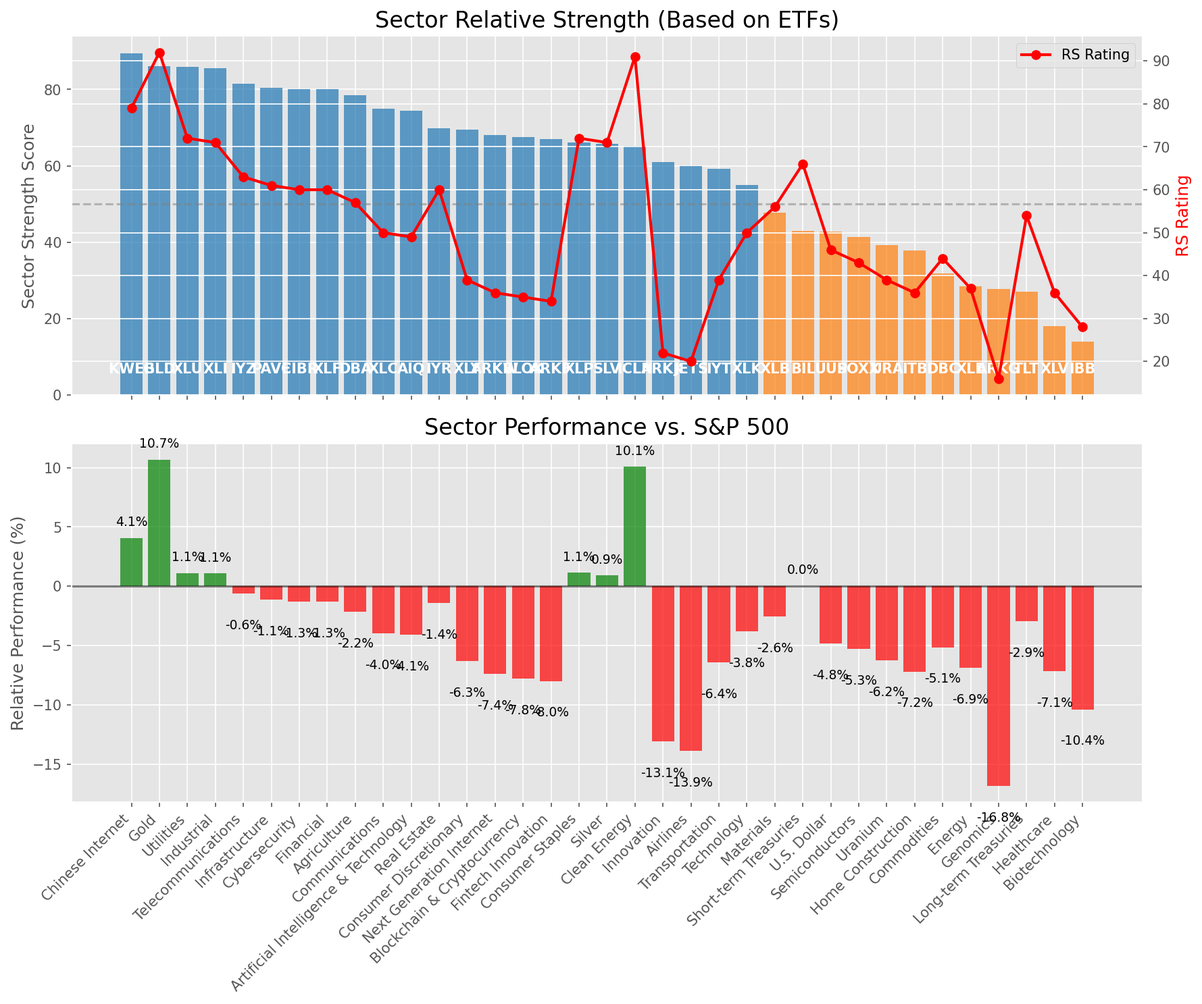
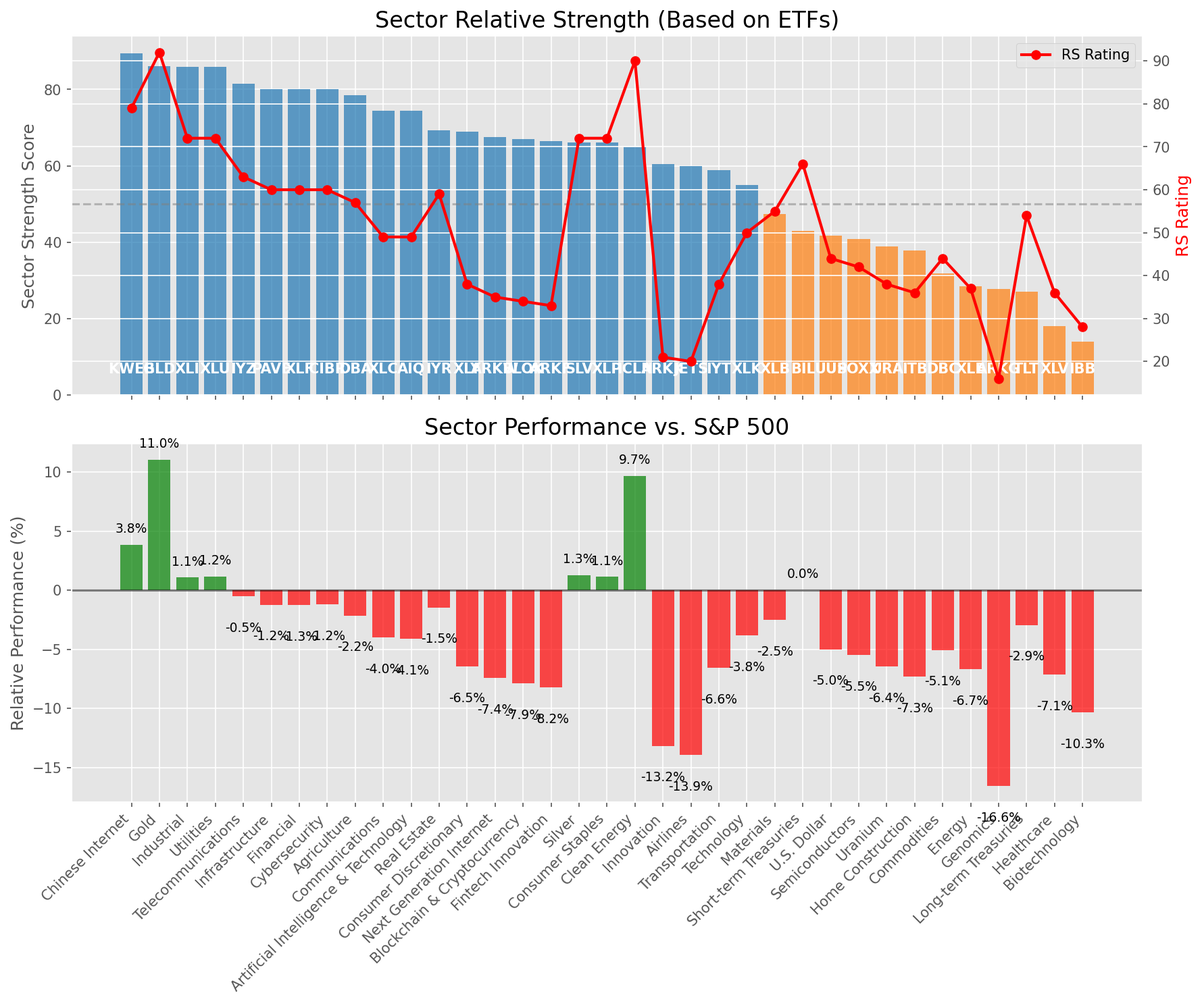
Add market report for 2025-05-12

diff --git a/oneil_relative_strength_report_2025-05-12.md b/oneil_relative_strength_report_2025-05-12.md
@@ -13,7 +13,7 @@
 | **Historical Mean** | 9.41 |
 | **Standard Deviation** | 0.51 |
 | **Z-Score (StdDev from Mean)** | -0.27 |
-| **Total Market Cap** | $286.75 trillion |
+| **Total Market Cap** | $286.88 trillion |
 | **GDP** | $29.98 trillion |
 
 ## **Market Insights**
@@ -49,41 +49,41 @@ Based on William O'Neil's Relative Strength Methodology
 
 | ETF | Strength | RS Rating | Performance | Above Key MAs | Trend | Sector |
 |-----|----------|-----------|-------------|--------------|-------|--------|
-| [KWEB](https://www.tradingview.com/chart/?symbol=KWEB) | 89.5 | 79.0 | 4.06% | 10d ✓, 50d ✓, 200d ✓ | ↗ | Chinese Internet |
-| [GLD](https://www.tradingview.com/chart/?symbol=GLD) | 86.1 | 92.0 | 10.67% | 10d ✗, 50d ✓, 200d ✓ | ↗ | Gold |
-| [XLU](https://www.tradingview.com/chart/?symbol=XLU) | 86.0 | 72.0 | 1.13% | 10d ✓, 50d ✓, 200d ✓ | ↗ | Utilities |
-| [XLI](https://www.tradingview.com/chart/?symbol=XLI) | 85.5 | 71.0 | 1.09% | 10d ✓, 50d ✓, 200d ✓ | ↗ | Industrial |
-| [IYZ](https://www.tradingview.com/chart/?symbol=IYZ) | 81.5 | 63.0 | -0.61% | 10d ✓, 50d ✓, 200d ✓ | ↗ | Telecommunications |
-| [PAVE](https://www.tradingview.com/chart/?symbol=PAVE) | 80.5 | 61.0 | -1.14% | 10d ✓, 50d ✓, 200d ✓ | ↗ | Infrastructure |
-| [CIBR](https://www.tradingview.com/chart/?symbol=CIBR) | 80.0 | 60.0 | -1.29% | 10d ✓, 50d ✓, 200d ✓ | ↗ | Cybersecurity |
-| [XLF](https://www.tradingview.com/chart/?symbol=XLF) | 80.0 | 60.0 | -1.29% | 10d ✓, 50d ✓, 200d ✓ | ↗ | Financial |
-| [DBA](https://www.tradingview.com/chart/?symbol=DBA) | 78.5 | 57.0 | -2.17% | 10d ✓, 50d ✓, 200d ✓ | ↗ | Agriculture |
-| [XLC](https://www.tradingview.com/chart/?symbol=XLC) | 75.0 | 50.0 | -3.97% | 10d ✓, 50d ✓, 200d ✓ | ↗ | Communications |
-| [AIQ](https://www.tradingview.com/chart/?symbol=AIQ) | 74.5 | 49.0 | -4.06% | 10d ✓, 50d ✓, 200d ✓ | ↗ | Artificial Intelligence & Technology |
-| [IYR](https://www.tradingview.com/chart/?symbol=IYR) | 69.8 | 60.0 | -1.42% | 10d ✓, 50d ✓, 200d ✗ | ↗ | Real Estate |
-| [XLY](https://www.tradingview.com/chart/?symbol=XLY) | 69.5 | 39.0 | -6.28% | 10d ✓, 50d ✓, 200d ✓ | ↗ | Consumer Discretionary |
-| [ARKW](https://www.tradingview.com/chart/?symbol=ARKW) | 68.0 | 36.0 | -7.39% | 10d ✓, 50d ✓, 200d ✓ | ↗ | Next Generation Internet |
-| [BLOK](https://www.tradingview.com/chart/?symbol=BLOK) | 67.5 | 35.0 | -7.78% | 10d ✓, 50d ✓, 200d ✓ | ↗ | Blockchain & Cryptocurrency |
-| [ARKF](https://www.tradingview.com/chart/?symbol=ARKF) | 67.0 | 34.0 | -7.98% | 10d ✓, 50d ✓, 200d ✓ | ↗ | Fintech Innovation |
-| [XLP](https://www.tradingview.com/chart/?symbol=XLP) | 66.2 | 72.0 | 1.14% | 10d ✗, 50d ✗, 200d ✓ | ↗ | Consumer Staples |
-| [SLV](https://www.tradingview.com/chart/?symbol=SLV) | 65.7 | 71.0 | 0.92% | 10d ✗, 50d ✗, 200d ✓ | ↗ | Silver |
-| [ICLN](https://www.tradingview.com/chart/?symbol=ICLN) | 65.3 | 91.0 | 10.06% | 10d ✓, 50d ✓, 200d ✗ | ↘ | Clean Energy |
-| [ARKK](https://www.tradingview.com/chart/?symbol=ARKK) | 61.0 | 22.0 | -13.09% | 10d ✓, 50d ✓, 200d ✓ | ↗ | Innovation |
-| [JETS](https://www.tradingview.com/chart/?symbol=JETS) | 60.0 | 20.0 | -13.87% | 10d ✓, 50d ✓, 200d ✓ | ↗ | Airlines |
-| [IYT](https://www.tradingview.com/chart/?symbol=IYT) | 59.3 | 39.0 | -6.43% | 10d ✓, 50d ✓, 200d ✗ | ↗ | Transportation |
-| [XLK](https://www.tradingview.com/chart/?symbol=XLK) | 55.0 | 50.0 | -3.78% | 10d ✓, 50d ✓, 200d ✓ | ↘ | Technology |
-| [XLB](https://www.tradingview.com/chart/?symbol=XLB) | 47.8 | 56.0 | -2.56% | 10d ✓, 50d ✓, 200d ✗ | ↘ | Materials |
+| [KWEB](https://www.tradingview.com/chart/?symbol=KWEB) | 89.5 | 79.0 | 3.84% | 10d ✓, 50d ✓, 200d ✓ | ↗ | Chinese Internet |
+| [GLD](https://www.tradingview.com/chart/?symbol=GLD) | 86.1 | 92.0 | 11.04% | 10d ✗, 50d ✓, 200d ✓ | ↗ | Gold |
+| [XLI](https://www.tradingview.com/chart/?symbol=XLI) | 86.0 | 72.0 | 1.09% | 10d ✓, 50d ✓, 200d ✓ | ↗ | Industrial |
+| [XLU](https://www.tradingview.com/chart/?symbol=XLU) | 86.0 | 72.0 | 1.16% | 10d ✓, 50d ✓, 200d ✓ | ↗ | Utilities |
+| [IYZ](https://www.tradingview.com/chart/?symbol=IYZ) | 81.5 | 63.0 | -0.52% | 10d ✓, 50d ✓, 200d ✓ | ↗ | Telecommunications |
+| [PAVE](https://www.tradingview.com/chart/?symbol=PAVE) | 80.0 | 60.0 | -1.23% | 10d ✓, 50d ✓, 200d ✓ | ↗ | Infrastructure |
+| [XLF](https://www.tradingview.com/chart/?symbol=XLF) | 80.0 | 60.0 | -1.27% | 10d ✓, 50d ✓, 200d ✓ | ↗ | Financial |
+| [CIBR](https://www.tradingview.com/chart/?symbol=CIBR) | 80.0 | 60.0 | -1.19% | 10d ✓, 50d ✓, 200d ✓ | ↗ | Cybersecurity |
+| [DBA](https://www.tradingview.com/chart/?symbol=DBA) | 78.5 | 57.0 | -2.16% | 10d ✓, 50d ✓, 200d ✓ | ↗ | Agriculture |
+| [XLC](https://www.tradingview.com/chart/?symbol=XLC) | 74.5 | 49.0 | -4.02% | 10d ✓, 50d ✓, 200d ✓ | ↗ | Communications |
+| [AIQ](https://www.tradingview.com/chart/?symbol=AIQ) | 74.5 | 49.0 | -4.13% | 10d ✓, 50d ✓, 200d ✓ | ↗ | Artificial Intelligence & Technology |
+| [IYR](https://www.tradingview.com/chart/?symbol=IYR) | 69.3 | 59.0 | -1.46% | 10d ✓, 50d ✓, 200d ✗ | ↗ | Real Estate |
+| [XLY](https://www.tradingview.com/chart/?symbol=XLY) | 69.0 | 38.0 | -6.45% | 10d ✓, 50d ✓, 200d ✓ | ↗ | Consumer Discretionary |
+| [ARKW](https://www.tradingview.com/chart/?symbol=ARKW) | 67.5 | 35.0 | -7.43% | 10d ✓, 50d ✓, 200d ✓ | ↗ | Next Generation Internet |
+| [BLOK](https://www.tradingview.com/chart/?symbol=BLOK) | 67.0 | 34.0 | -7.88% | 10d ✓, 50d ✓, 200d ✓ | ↗ | Blockchain & Cryptocurrency |
+| [ARKF](https://www.tradingview.com/chart/?symbol=ARKF) | 66.5 | 33.0 | -8.24% | 10d ✓, 50d ✓, 200d ✓ | ↗ | Fintech Innovation |
+| [SLV](https://www.tradingview.com/chart/?symbol=SLV) | 66.2 | 72.0 | 1.27% | 10d ✗, 50d ✗, 200d ✓ | ↗ | Silver |
+| [XLP](https://www.tradingview.com/chart/?symbol=XLP) | 66.2 | 72.0 | 1.12% | 10d ✗, 50d ✗, 200d ✓ | ↗ | Consumer Staples |
+| [ICLN](https://www.tradingview.com/chart/?symbol=ICLN) | 64.8 | 90.0 | 9.66% | 10d ✓, 50d ✓, 200d ✗ | ↘ | Clean Energy |
+| [ARKK](https://www.tradingview.com/chart/?symbol=ARKK) | 60.5 | 21.0 | -13.18% | 10d ✓, 50d ✓, 200d ✓ | ↗ | Innovation |
+| [JETS](https://www.tradingview.com/chart/?symbol=JETS) | 60.0 | 20.0 | -13.95% | 10d ✓, 50d ✓, 200d ✓ | ↗ | Airlines |
+| [IYT](https://www.tradingview.com/chart/?symbol=IYT) | 58.8 | 38.0 | -6.56% | 10d ✓, 50d ✓, 200d ✗ | ↗ | Transportation |
+| [XLK](https://www.tradingview.com/chart/?symbol=XLK) | 55.0 | 50.0 | -3.84% | 10d ✓, 50d ✓, 200d ✓ | ↘ | Technology |
+| [XLB](https://www.tradingview.com/chart/?symbol=XLB) | 47.3 | 55.0 | -2.53% | 10d ✓, 50d ✓, 200d ✗ | ↘ | Materials |
 | [BIL](https://www.tradingview.com/chart/?symbol=BIL) | 42.9 | 66.0 | 0.03% | 10d ✓, 50d ✗, 200d ✗ | ↘ | Short-term Treasuries |
-| [UUP](https://www.tradingview.com/chart/?symbol=UUP) | 42.8 | 46.0 | -4.83% | 10d ✓, 50d ✓, 200d ✗ | ↘ | U.S. Dollar |
-| [SOXX](https://www.tradingview.com/chart/?symbol=SOXX) | 41.3 | 43.0 | -5.27% | 10d ✓, 50d ✓, 200d ✗ | ↘ | Semiconductors |
-| [URA](https://www.tradingview.com/chart/?symbol=URA) | 39.3 | 39.0 | -6.24% | 10d ✓, 50d ✓, 200d ✗ | ↘ | Uranium |
-| [ITB](https://www.tradingview.com/chart/?symbol=ITB) | 37.8 | 36.0 | -7.18% | 10d ✓, 50d ✓, 200d ✗ | ↘ | Home Construction |
-| [DBC](https://www.tradingview.com/chart/?symbol=DBC) | 31.9 | 44.0 | -5.13% | 10d ✓, 50d ✗, 200d ✗ | ↘ | Commodities |
-| [XLE](https://www.tradingview.com/chart/?symbol=XLE) | 28.4 | 37.0 | -6.88% | 10d ✓, 50d ✗, 200d ✗ | ↘ | Energy |
-| [ARKG](https://www.tradingview.com/chart/?symbol=ARKG) | 27.8 | 16.0 | -16.82% | 10d ✓, 50d ✓, 200d ✗ | ↘ | Genomics |
-| [TLT](https://www.tradingview.com/chart/?symbol=TLT) | 27.0 | 54.0 | -2.93% | 10d ✗, 50d ✗, 200d ✗ | ↘ | Long-term Treasuries |
-| [XLV](https://www.tradingview.com/chart/?symbol=XLV) | 18.0 | 36.0 | -7.14% | 10d ✗, 50d ✗, 200d ✗ | ↘ | Healthcare |
-| [IBB](https://www.tradingview.com/chart/?symbol=IBB) | 14.0 | 28.0 | -10.37% | 10d ✗, 50d ✗, 200d ✗ | ↘ | Biotechnology |
+| [UUP](https://www.tradingview.com/chart/?symbol=UUP) | 41.8 | 44.0 | -5.01% | 10d ✓, 50d ✓, 200d ✗ | ↘ | U.S. Dollar |
+| [SOXX](https://www.tradingview.com/chart/?symbol=SOXX) | 40.8 | 42.0 | -5.49% | 10d ✓, 50d ✓, 200d ✗ | ↘ | Semiconductors |
+| [URA](https://www.tradingview.com/chart/?symbol=URA) | 38.8 | 38.0 | -6.44% | 10d ✓, 50d ✓, 200d ✗ | ↘ | Uranium |
+| [ITB](https://www.tradingview.com/chart/?symbol=ITB) | 37.8 | 36.0 | -7.31% | 10d ✓, 50d ✓, 200d ✗ | ↘ | Home Construction |
+| [DBC](https://www.tradingview.com/chart/?symbol=DBC) | 31.9 | 44.0 | -5.07% | 10d ✓, 50d ✗, 200d ✗ | ↘ | Commodities |
+| [XLE](https://www.tradingview.com/chart/?symbol=XLE) | 28.4 | 37.0 | -6.69% | 10d ✓, 50d ✗, 200d ✗ | ↘ | Energy |
+| [ARKG](https://www.tradingview.com/chart/?symbol=ARKG) | 27.8 | 16.0 | -16.56% | 10d ✓, 50d ✓, 200d ✗ | ↘ | Genomics |
+| [TLT](https://www.tradingview.com/chart/?symbol=TLT) | 27.0 | 54.0 | -2.95% | 10d ✗, 50d ✗, 200d ✗ | ↘ | Long-term Treasuries |
+| [XLV](https://www.tradingview.com/chart/?symbol=XLV) | 18.0 | 36.0 | -7.13% | 10d ✗, 50d ✗, 200d ✗ | ↘ | Healthcare |
+| [IBB](https://www.tradingview.com/chart/?symbol=IBB) | 14.0 | 28.0 | -10.34% | 10d ✗, 50d ✗, 200d ✗ | ↘ | Biotechnology |
 
 ### **Sector ETF Performance Interpretation**
 
@@ -98,160 +98,155 @@ This table shows the relative strength metrics for different market sectors base
 
 ### **Current Sector Leadership**
 
-The current market leadership is coming from the following sectors: **Chinese Internet, Gold, Utilities**.
+The current market leadership is coming from the following sectors: **Chinese Internet, Gold, Industrial**.
 
-The **Chinese Internet** sector (represented by **KWEB**) is showing particularly strong relative strength with an RS rating of 79.0 and performance of 4.06% vs. the S&P 500. This sector is trading above its 10-day, 50-day, 200-day moving average(s). Investors should consider focusing on high RS stocks within these leading sectors for potential outperformance.
+The **Chinese Internet** sector (represented by **KWEB**) is showing particularly strong relative strength with an RS rating of 79.0 and performance of 3.84% vs. the S&P 500. This sector is trading above its 10-day, 50-day, 200-day moving average(s). Investors should consider focusing on high RS stocks within these leading sectors for potential outperformance.
 
 ---
 
 ## **Buy Recommendations**
 
-The following 55 stocks show exceptional relative strength:
+The following 59 stocks show exceptional relative strength:
 
 | RS Rating | Buy Score | Current Price | Chart | Name | Ticker |
 |-----------|-----------|---------------|-------|------|--------|
-| 100 | 100 | $19.35 | [Chart](https://www.tradingview.com/chart/?symbol=SPNT) | SiriusPoint Ltd. | SPNT |
+| 100 | 100 | $86.19 | [Chart](https://www.tradingview.com/chart/?symbol=SEZL) | Sezzle Inc. Common Stock | SEZL |
+| 100 | 100 | $154.80 | [Chart](https://www.tradingview.com/chart/?symbol=PLMR) | Palomar Holdings, Inc. Common stock | PLMR |
+| 100 | 100 | $19.57 | [Chart](https://www.tradingview.com/chart/?symbol=SPNT) | SiriusPoint Ltd. | SPNT |
+| 100 | 100 | $171.01 | [Chart](https://www.tradingview.com/chart/?symbol=DAVE) | Dave Inc. Class A Common Stock | DAVE |
 | 100 | 100 | $27.43 | [Chart](https://www.tradingview.com/chart/?symbol=DB) | Deutsche Bank Aktiengesellschaft | DB |
-| 100 | 100 | $87.50 | [Chart](https://www.tradingview.com/chart/?symbol=SEZL) | Sezzle Inc. Common Stock | SEZL |
-| 100 | 100 | $172.51 | [Chart](https://www.tradingview.com/chart/?symbol=DAVE) | Dave Inc. Class A Common Stock | DAVE |
-| 100 | 100 | $23.04 | [Chart](https://www.tradingview.com/chart/?symbol=PRA) | ProAssurance Corporation | PRA |
-| 100 | 100 | $23.90 | [Chart](https://www.tradingview.com/chart/?symbol=GRND) | Grindr Inc. | GRND |
-| 99 | 100 | $149.30 | [Chart](https://www.tradingview.com/chart/?symbol=ROOT) | Root, Inc. Class A Common Stock | ROOT |
-| 99 | 100 | $133.00 | [Chart](https://www.tradingview.com/chart/?symbol=VSEC) | VSE Corp | VSEC |
-| 99 | 100 | $47.63 | [Chart](https://www.tradingview.com/chart/?symbol=MRX) | Marex Group plc Ordinary Shares | MRX |
-| 99 | 100 | $70.11 | [Chart](https://www.tradingview.com/chart/?symbol=ULS) | UL Solutions Inc. | ULS |
-| 98 | 100 | $406.57 | [Chart](https://www.tradingview.com/chart/?symbol=MSTR) | MicroStrategy Inc | MSTR |
-| 98 | 100 | $130.24 | [Chart](https://www.tradingview.com/chart/?symbol=ATGE) | Adtalem Global Education Inc. Common Shares | ATGE |
-| 98 | 100 | $157.44 | [Chart](https://www.tradingview.com/chart/?symbol=HWM) | Howmet Aerospace Inc. | HWM |
-| 98 | 100 | $38.65 | [Chart](https://www.tradingview.com/chart/?symbol=PAY) | Paymentus Holdings, Inc. | PAY |
-| 98 | 100 | $30.66 | [Chart](https://www.tradingview.com/chart/?symbol=EUFN) | iShares MSCI Europe Financials ETF | EUFN |
-| 98 | 100 | $34.90 | [Chart](https://www.tradingview.com/chart/?symbol=AHR) | American Healthcare REIT, Inc. | AHR |
-| 97 | 100 | $116.71 | [Chart](https://www.tradingview.com/chart/?symbol=EHC) | Encompass Health Corporation Common Stock | EHC |
-| 97 | 100 | $147.93 | [Chart](https://www.tradingview.com/chart/?symbol=CAH) | Cardinal Health, Inc. | CAH |
-| 96 | 100 | $40.25 | [Chart](https://www.tradingview.com/chart/?symbol=EWG) | iShares MSCI Germany ETF | EWG |
-| 96 | 100 | $28.05 | [Chart](https://www.tradingview.com/chart/?symbol=FMS) | Fresenius Medical Care AG | FMS |
-| 96 | 100 | $33.27 | [Chart](https://www.tradingview.com/chart/?symbol=SLM) | SLM Corporation | SLM |
-| 96 | 100 | $143.66 | [Chart](https://www.tradingview.com/chart/?symbol=SE) | Sea Limited American Depositary Shares, each representing one Class A Ordinary Share | SE |
-| 96 | 100 | $74.53 | [Chart](https://www.tradingview.com/chart/?symbol=RBLX) | Roblox Corporation | RBLX |
-| 96 | 100 | $33.80 | [Chart](https://www.tradingview.com/chart/?symbol=UTI) | Universal Technical Institute, Inc. | UTI |
-| 95 | 100 | $217.23 | [Chart](https://www.tradingview.com/chart/?symbol=CRS) | Carpenter Technology Corp | CRS |
+| 99 | 100 | $47.58 | [Chart](https://www.tradingview.com/chart/?symbol=MRX) | Marex Group plc Ordinary Shares | MRX |
+| 99 | 100 | $132.54 | [Chart](https://www.tradingview.com/chart/?symbol=VSEC) | VSE Corp | VSEC |
+| 99 | 100 | $150.82 | [Chart](https://www.tradingview.com/chart/?symbol=ROOT) | Root, Inc. Class A Common Stock | ROOT |
+| 99 | 100 | $70.68 | [Chart](https://www.tradingview.com/chart/?symbol=ULS) | UL Solutions Inc. | ULS |
+| 99 | 100 | $23.66 | [Chart](https://www.tradingview.com/chart/?symbol=GRND) | Grindr Inc. | GRND |
+| 98 | 100 | $156.25 | [Chart](https://www.tradingview.com/chart/?symbol=HWM) | Howmet Aerospace Inc. | HWM |
+| 98 | 100 | $407.09 | [Chart](https://www.tradingview.com/chart/?symbol=MSTR) | MicroStrategy Inc | MSTR |
+| 98 | 100 | $130.86 | [Chart](https://www.tradingview.com/chart/?symbol=ATGE) | Adtalem Global Education Inc. Common Shares | ATGE |
+| 98 | 100 | $34.76 | [Chart](https://www.tradingview.com/chart/?symbol=AHR) | American Healthcare REIT, Inc. | AHR |
+| 97 | 100 | $40.68 | [Chart](https://www.tradingview.com/chart/?symbol=DRS) | Leonardo DRS, Inc. Common Stock | DRS |
+| 97 | 100 | $33.97 | [Chart](https://www.tradingview.com/chart/?symbol=UTI) | Universal Technical Institute, Inc. | UTI |
+| 97 | 100 | $116.90 | [Chart](https://www.tradingview.com/chart/?symbol=EHC) | Encompass Health Corporation Common Stock | EHC |
+| 97 | 100 | $30.71 | [Chart](https://www.tradingview.com/chart/?symbol=EUFN) | iShares MSCI Europe Financials ETF | EUFN |
+| 97 | 100 | $38.18 | [Chart](https://www.tradingview.com/chart/?symbol=PAY) | Paymentus Holdings, Inc. | PAY |
+| 96 | 100 | $28.10 | [Chart](https://www.tradingview.com/chart/?symbol=FMS) | Fresenius Medical Care AG | FMS |
+| 96 | 100 | $40.32 | [Chart](https://www.tradingview.com/chart/?symbol=EWG) | iShares MSCI Germany ETF | EWG |
+| 96 | 100 | $147.92 | [Chart](https://www.tradingview.com/chart/?symbol=CAH) | Cardinal Health, Inc. | CAH |
+| 95 | 100 | $217.38 | [Chart](https://www.tradingview.com/chart/?symbol=CRS) | Carpenter Technology Corp | CRS |
+| 95 | 100 | $22.51 | [Chart](https://www.tradingview.com/chart/?symbol=LAUR) | Laureate Education, Inc. Common Stock | LAUR |
 | 95 | 100 | $40.85 | [Chart](https://www.tradingview.com/chart/?symbol=AB) | AllianceBernstein Holding, L.P. | AB |
-| 95 | 100 | $298.49 | [Chart](https://www.tradingview.com/chart/?symbol=PEN) | Penumbra, Inc. | PEN |
-| 95 | 100 | $47.82 | [Chart](https://www.tradingview.com/chart/?symbol=ERJ) | Embraer S.A. | ERJ |
-| 95 | 100 | $62.06 | [Chart](https://www.tradingview.com/chart/?symbol=CHEF) | The Chef's Warehouse Inc | CHEF |
-| 94 | 100 | $22.40 | [Chart](https://www.tradingview.com/chart/?symbol=LAUR) | Laureate Education, Inc. Common Stock | LAUR |
-| 93 | 100 | $53.04 | [Chart](https://www.tradingview.com/chart/?symbol=EPR) | EPR Properties | EPR |
-| 93 | 100 | $87.51 | [Chart](https://www.tradingview.com/chart/?symbol=TGLS) | Tecnoglass Inc. | TGLS |
-| 93 | 100 | $16.72 | [Chart](https://www.tradingview.com/chart/?symbol=BCS) | Barclays PLC | BCS |
-| 93 | 100 | $104.70 | [Chart](https://www.tradingview.com/chart/?symbol=RBA) | RB Global, Inc. | RBA |
-| 92 | 100 | $316.93 | [Chart](https://www.tradingview.com/chart/?symbol=PODD) | Insulet Corporation | PODD |
-| 89 | 100 | $94.56 | [Chart](https://www.tradingview.com/chart/?symbol=HEES) | H&E Equipment Services, Inc. | HEES |
-| 89 | 100 | $25.10 | [Chart](https://www.tradingview.com/chart/?symbol=EWS) | iShares MSCI Singapore ETF | EWS |
-| 89 | 100 | $67.65 | [Chart](https://www.tradingview.com/chart/?symbol=CTVA) | Corteva, Inc. Common Stock | CTVA |
-| 88 | 100 | $58.24 | [Chart](https://www.tradingview.com/chart/?symbol=HSBC) | HSBC Holdings PLC | HSBC |
-| 87 | 99 | $196.10 | [Chart](https://www.tradingview.com/chart/?symbol=LOPE) | Grand Canyon Education, Inc | LOPE |
-| 88 | 98 | $13.30 | [Chart](https://www.tradingview.com/chart/?symbol=CNH) | CNH INDUSTRIAL N.V. | CNH |
-| 86 | 96 | $30.55 | [Chart](https://www.tradingview.com/chart/?symbol=PRDO) | Perdoceo Education Corporation | PRDO |
-| 85 | 96 | $205.37 | [Chart](https://www.tradingview.com/chart/?symbol=BAP) | Credicorp LTD | BAP |
-| 83 | 96 | $45.78 | [Chart](https://www.tradingview.com/chart/?symbol=QFIN) | Qifu Technology, Inc. American Depositary Shares | QFIN |
-| 84 | 95 | $29.62 | [Chart](https://www.tradingview.com/chart/?symbol=ATAT) | Atour Lifestyle Holdings Limited American Depositary Shares | ATAT |
-| 82 | 95 | $218.41 | [Chart](https://www.tradingview.com/chart/?symbol=IDCC) | InterDigital, Inc. | IDCC |
+| 95 | 100 | $297.33 | [Chart](https://www.tradingview.com/chart/?symbol=PEN) | Penumbra, Inc. | PEN |
+| 95 | 100 | $33.23 | [Chart](https://www.tradingview.com/chart/?symbol=SLM) | SLM Corporation | SLM |
+| 95 | 100 | $73.67 | [Chart](https://www.tradingview.com/chart/?symbol=RBLX) | Roblox Corporation | RBLX |
+| 95 | 100 | $48.00 | [Chart](https://www.tradingview.com/chart/?symbol=ERJ) | Embraer S.A. | ERJ |
+| 95 | 100 | $62.11 | [Chart](https://www.tradingview.com/chart/?symbol=CHEF) | The Chef's Warehouse Inc | CHEF |
+| 95 | 100 | $142.84 | [Chart](https://www.tradingview.com/chart/?symbol=SE) | Sea Limited American Depositary Shares, each representing one Class A Ordinary Share | SE |
+| 94 | 100 | $119.51 | [Chart](https://www.tradingview.com/chart/?symbol=COOP) | Mr. Cooper Group Inc. Common Stock | COOP |
+| 93 | 100 | $87.08 | [Chart](https://www.tradingview.com/chart/?symbol=TGLS) | Tecnoglass Inc. | TGLS |
+| 93 | 100 | $52.99 | [Chart](https://www.tradingview.com/chart/?symbol=EPR) | EPR Properties | EPR |
+| 93 | 100 | $16.73 | [Chart](https://www.tradingview.com/chart/?symbol=BCS) | Barclays PLC | BCS |
+| 93 | 100 | $104.27 | [Chart](https://www.tradingview.com/chart/?symbol=RBA) | RB Global, Inc. | RBA |
+| 92 | 100 | $316.15 | [Chart](https://www.tradingview.com/chart/?symbol=PODD) | Insulet Corporation | PODD |
+| 90 | 100 | $112.75 | [Chart](https://www.tradingview.com/chart/?symbol=OLLI) | Ollie's Bargain Outlet Holdings, Inc. Common Stock | OLLI |
+| 89 | 100 | $25.11 | [Chart](https://www.tradingview.com/chart/?symbol=EWS) | iShares MSCI Singapore ETF | EWS |
+| 89 | 100 | $94.58 | [Chart](https://www.tradingview.com/chart/?symbol=HEES) | H&E Equipment Services, Inc. | HEES |
+| 89 | 100 | $67.88 | [Chart](https://www.tradingview.com/chart/?symbol=CTVA) | Corteva, Inc. Common Stock | CTVA |
+| 88 | 100 | $58.30 | [Chart](https://www.tradingview.com/chart/?symbol=HSBC) | HSBC Holdings PLC | HSBC |
+| 88 | 100 | $195.67 | [Chart](https://www.tradingview.com/chart/?symbol=LOPE) | Grand Canyon Education, Inc | LOPE |
+| 88 | 98 | $13.32 | [Chart](https://www.tradingview.com/chart/?symbol=CNH) | CNH INDUSTRIAL N.V. | CNH |
+| 88 | 98 | $30.86 | [Chart](https://www.tradingview.com/chart/?symbol=PRDO) | Perdoceo Education Corporation | PRDO |
+| 85 | 95 | $35.96 | [Chart](https://www.tradingview.com/chart/?symbol=FXI) | iShares China Large-Cap ETF | FXI |
+| 84 | 95 | $205.37 | [Chart](https://www.tradingview.com/chart/?symbol=BAP) | Credicorp LTD | BAP |
+| 81 | 94 | $217.52 | [Chart](https://www.tradingview.com/chart/?symbol=IDCC) | InterDigital, Inc. | IDCC |
+| 81 | 94 | $45.51 | [Chart](https://www.tradingview.com/chart/?symbol=QFIN) | Qifu Technology, Inc. American Depositary Shares | QFIN |
+| 83 | 93 | $29.52 | [Chart](https://www.tradingview.com/chart/?symbol=ATAT) | Atour Lifestyle Holdings Limited American Depositary Shares | ATAT |
+| 82 | 93 | $165.27 | [Chart](https://www.tradingview.com/chart/?symbol=ITA) | iShares U.S. Aerospace & Defense ETF | ITA |
+| 82 | 93 | $25.11 | [Chart](https://www.tradingview.com/chart/?symbol=PRVA) | Privia Health Group, Inc. Common Stock | PRVA |
 | 82 | 93 | $23.97 | [Chart](https://www.tradingview.com/chart/?symbol=CPRX) | Catalyst Pharmaceutical  Inc. | CPRX |
-| 81 | 93 | $205.07 | [Chart](https://www.tradingview.com/chart/?symbol=DRI) | Darden Restaurants, Inc. | DRI |
-| 80 | 93 | $66.28 | [Chart](https://www.tradingview.com/chart/?symbol=CSGS) | CSG Systems International | CSGS |
-| 82 | 92 | $13.03 | [Chart](https://www.tradingview.com/chart/?symbol=MUFG) | Mitsubishi UFJ Financial Group, Inc. | MUFG |
-| 81 | 92 | $165.04 | [Chart](https://www.tradingview.com/chart/?symbol=ITA) | iShares U.S. Aerospace & Defense ETF | ITA |
-| 81 | 91 | $69.75 | [Chart](https://www.tradingview.com/chart/?symbol=BROS) | Dutch Bros Inc. | BROS |
-| 81 | 91 | $17.10 | [Chart](https://www.tradingview.com/chart/?symbol=MIR) | Mirion Technologies, Inc. | MIR |
-| 81 | 90 | $58.01 | [Chart](https://www.tradingview.com/chart/?symbol=IBIT) | iShares Bitcoin Trust ETF | IBIT |
-| 80 | 89 | $28.83 | [Chart](https://www.tradingview.com/chart/?symbol=HODL) | VanEck Bitcoin ETF | HODL |
+| 81 | 93 | $204.95 | [Chart](https://www.tradingview.com/chart/?symbol=DRI) | Darden Restaurants, Inc. | DRI |
+| 81 | 91 | $13.02 | [Chart](https://www.tradingview.com/chart/?symbol=MUFG) | Mitsubishi UFJ Financial Group, Inc. | MUFG |
+| 81 | 90 | $57.98 | [Chart](https://www.tradingview.com/chart/?symbol=IBIT) | iShares Bitcoin Trust ETF | IBIT |
+| 81 | 90 | $28.85 | [Chart](https://www.tradingview.com/chart/?symbol=HODL) | VanEck Bitcoin ETF | HODL |
+| 80 | 90 | $17.06 | [Chart](https://www.tradingview.com/chart/?symbol=MIR) | Mirion Technologies, Inc. | MIR |
+| 80 | 90 | $69.60 | [Chart](https://www.tradingview.com/chart/?symbol=BROS) | Dutch Bros Inc. | BROS |
 
 ---
 
 
 ## **Sell Recommendations**
 
-The following 77 stocks show deteriorating relative strength:
+The following 68 stocks show deteriorating relative strength:
 
 | RS Rating | Sell Score | Current Price | Chart | Name | Ticker |
 |-----------|------------|---------------|-------|------|--------|
-| 1 | 100 | $10.16 | [Chart](https://www.tradingview.com/chart/?symbol=NRIX) | Nurix Therapeutics, Inc. Common stock | NRIX |
-| 1 | 100 | $20.55 | [Chart](https://www.tradingview.com/chart/?symbol=BHVN) | Biohaven Ltd. | BHVN |
-| 2 | 100 | $13.98 | [Chart](https://www.tradingview.com/chart/?symbol=DQ) | Daqo New Energy Corp. American Depositary Shares (each representing 5 Ordinary Shares) | DQ |
-| 2 | 100 | $10.35 | [Chart](https://www.tradingview.com/chart/?symbol=LSPD) | Lightspeed Commerce Inc. | LSPD |
-| 3 | 100 | $29.62 | [Chart](https://www.tradingview.com/chart/?symbol=CRTO) | Criteo S.A. | CRTO |
-| 4 | 100 | $13.18 | [Chart](https://www.tradingview.com/chart/?symbol=MNRO) | Monro, Inc. Common Stock | MNRO |
-| 5 | 100 | $28.01 | [Chart](https://www.tradingview.com/chart/?symbol=SRDX) | Surmodics, Inc. Common Stock | SRDX |
-| 5 | 100 | $13.26 | [Chart](https://www.tradingview.com/chart/?symbol=FL) | Foot Locker, Inc. | FL |
-| 5 | 100 | $11.64 | [Chart](https://www.tradingview.com/chart/?symbol=ARCT) | Arcturus Therapeutics Holdings Inc. Common Stock | ARCT |
-| 6 | 100 | $18.72 | [Chart](https://www.tradingview.com/chart/?symbol=VRNT) | Verint Systems Inc | VRNT |
-| 7 | 100 | $15.96 | [Chart](https://www.tradingview.com/chart/?symbol=PENN) | PENN Entertainment, Inc. Common Stock | PENN |
-| 7 | 100 | $14.47 | [Chart](https://www.tradingview.com/chart/?symbol=IMVT) | Immunovant, Inc. Common Stock | IMVT |
-| 7 | 100 | $33.22 | [Chart](https://www.tradingview.com/chart/?symbol=AAP) | ADVANCE AUTO PARTS INC | AAP |
-| 8 | 100 | $128.78 | [Chart](https://www.tradingview.com/chart/?symbol=TFX) | Teleflex Incorporated | TFX |
+| 1 | 100 | $10.22 | [Chart](https://www.tradingview.com/chart/?symbol=NRIX) | Nurix Therapeutics, Inc. Common stock | NRIX |
+| 1 | 100 | $20.40 | [Chart](https://www.tradingview.com/chart/?symbol=BHVN) | Biohaven Ltd. | BHVN |
+| 2 | 100 | $14.04 | [Chart](https://www.tradingview.com/chart/?symbol=DQ) | Daqo New Energy Corp. American Depositary Shares (each representing 5 Ordinary Shares) | DQ |
+| 2 | 100 | $10.38 | [Chart](https://www.tradingview.com/chart/?symbol=LSPD) | Lightspeed Commerce Inc. | LSPD |
+| 4 | 100 | $29.61 | [Chart](https://www.tradingview.com/chart/?symbol=CRTO) | Criteo S.A. | CRTO |
+| 4 | 100 | $13.08 | [Chart](https://www.tradingview.com/chart/?symbol=MNRO) | Monro, Inc. Common Stock | MNRO |
+| 4 | 100 | $11.52 | [Chart](https://www.tradingview.com/chart/?symbol=ARCT) | Arcturus Therapeutics Holdings Inc. Common Stock | ARCT |
+| 5 | 100 | $13.38 | [Chart](https://www.tradingview.com/chart/?symbol=FL) | Foot Locker, Inc. | FL |
+| 6 | 100 | $18.77 | [Chart](https://www.tradingview.com/chart/?symbol=VRNT) | Verint Systems Inc | VRNT |
+| 6 | 100 | $15.92 | [Chart](https://www.tradingview.com/chart/?symbol=PENN) | PENN Entertainment, Inc. Common Stock | PENN |
+| 6 | 100 | $28.01 | [Chart](https://www.tradingview.com/chart/?symbol=SRDX) | Surmodics, Inc. Common Stock | SRDX |
+| 7 | 100 | $33.01 | [Chart](https://www.tradingview.com/chart/?symbol=AAP) | ADVANCE AUTO PARTS INC | AAP |
+| 8 | 100 | $129.16 | [Chart](https://www.tradingview.com/chart/?symbol=TFX) | Teleflex Incorporated | TFX |
+| 8 | 100 | $14.51 | [Chart](https://www.tradingview.com/chart/?symbol=IMVT) | Immunovant, Inc. Common Stock | IMVT |
+| 9 | 100 | $32.34 | [Chart](https://www.tradingview.com/chart/?symbol=CYTK) | Cytokinetics Inc. | CYTK |
 | 9 | 100 | $11.34 | [Chart](https://www.tradingview.com/chart/?symbol=HPK) | HighPeak Energy, Inc. Common Stock | HPK |
-| 9 | 100 | $32.40 | [Chart](https://www.tradingview.com/chart/?symbol=CYTK) | Cytokinetics Inc. | CYTK |
-| 11 | 100 | $33.54 | [Chart](https://www.tradingview.com/chart/?symbol=SMCI) | Super Micro Computer, Inc. Common Stock | SMCI |
-| 13 | 100 | $48.30 | [Chart](https://www.tradingview.com/chart/?symbol=RHI) | Robert Half Inc. | RHI |
+| 11 | 100 | $33.69 | [Chart](https://www.tradingview.com/chart/?symbol=SMCI) | Super Micro Computer, Inc. Common Stock | SMCI |
+| 13 | 100 | $48.20 | [Chart](https://www.tradingview.com/chart/?symbol=RHI) | Robert Half Inc. | RHI |
 | 16 | 100 | $10.34 | [Chart](https://www.tradingview.com/chart/?symbol=CMRE) | Costamare Inc. | CMRE |
-| 21 | 100 | $13.16 | [Chart](https://www.tradingview.com/chart/?symbol=MED) | Medifast, Inc. | MED |
+| 20 | 100 | $13.09 | [Chart](https://www.tradingview.com/chart/?symbol=MED) | Medifast, Inc. | MED |
 | 7 | 99 | $11.73 | [Chart](https://www.tradingview.com/chart/?symbol=JAMF) | Jamf Holding Corp. Common Stock | JAMF |
-| 9 | 99 | $12.05 | [Chart](https://www.tradingview.com/chart/?symbol=ZUMZ) | Zumiez Inc. | ZUMZ |
-| 18 | 99 | $10.88 | [Chart](https://www.tradingview.com/chart/?symbol=BWLP) | BW LPG Limited | BWLP |
 | 17 | 98 | $12.46 | [Chart](https://www.tradingview.com/chart/?symbol=AEYE) | AudioEye, Inc. Common Stock | AEYE |
-| 21 | 98 | $97.94 | [Chart](https://www.tradingview.com/chart/?symbol=CHRD) | Chord Energy Corporation Common Stock | CHRD |
+| 20 | 98 | $97.74 | [Chart](https://www.tradingview.com/chart/?symbol=CHRD) | Chord Energy Corporation Common Stock | CHRD |
+| 19 | 97 | $11.00 | [Chart](https://www.tradingview.com/chart/?symbol=BWLP) | BW LPG Limited | BWLP |
 | 6 | 96 | $10.31 | [Chart](https://www.tradingview.com/chart/?symbol=VREX) | Varex Imaging Corporation Common Stock | VREX |
 | 11 | 96 | $10.03 | [Chart](https://www.tradingview.com/chart/?symbol=MTAL) | MAC Copper Limited | MTAL |
-| 6 | 95 | $26.58 | [Chart](https://www.tradingview.com/chart/?symbol=TRN) | Trinity Industries, Inc. | TRN |
-| 20 | 95 | $29.20 | [Chart](https://www.tradingview.com/chart/?symbol=AGIO) | Agios Pharmaceuticals, Inc. | AGIO |
-| 13 | 94 | $17.83 | [Chart](https://www.tradingview.com/chart/?symbol=MLKN) | MillerKnoll, Inc. Common Stock | MLKN |
-| 15 | 94 | $50.91 | [Chart](https://www.tradingview.com/chart/?symbol=ERX) | Direxion Daily Energy Bull 2X Shares | ERX |
-| 11 | 93 | $10.64 | [Chart](https://www.tradingview.com/chart/?symbol=PEB) | Pebblebrook Hotel Trust | PEB |
+| 19 | 96 | $29.19 | [Chart](https://www.tradingview.com/chart/?symbol=AGIO) | Agios Pharmaceuticals, Inc. | AGIO |
+| 6 | 95 | $26.51 | [Chart](https://www.tradingview.com/chart/?symbol=TRN) | Trinity Industries, Inc. | TRN |
+| 13 | 94 | $17.86 | [Chart](https://www.tradingview.com/chart/?symbol=MLKN) | MillerKnoll, Inc. Common Stock | MLKN |
+| 16 | 94 | $13.17 | [Chart](https://www.tradingview.com/chart/?symbol=ZUMZ) | Zumiez Inc. | ZUMZ |
 | 11 | 93 | $31.47 | [Chart](https://www.tradingview.com/chart/?symbol=MBIN) | Merchants Bancorp Common Stock | MBIN |
-| 11 | 92 | $54.82 | [Chart](https://www.tradingview.com/chart/?symbol=PRCT) | PROCEPT BioRobotics Corporation Common Stock | PRCT |
-| 15 | 91 | $83.48 | [Chart](https://www.tradingview.com/chart/?symbol=WHR) | Whirlpool Corp. | WHR |
-| 15 | 91 | $10.95 | [Chart](https://www.tradingview.com/chart/?symbol=PACS) | PACS Group, Inc. | PACS |
+| 11 | 93 | $10.56 | [Chart](https://www.tradingview.com/chart/?symbol=PEB) | Pebblebrook Hotel Trust | PEB |
+| 16 | 93 | $51.14 | [Chart](https://www.tradingview.com/chart/?symbol=ERX) | Direxion Daily Energy Bull 2X Shares | ERX |
+| 11 | 91 | $54.34 | [Chart](https://www.tradingview.com/chart/?symbol=PRCT) | PROCEPT BioRobotics Corporation Common Stock | PRCT |
+| 15 | 91 | $83.16 | [Chart](https://www.tradingview.com/chart/?symbol=WHR) | Whirlpool Corp. | WHR |
+| 15 | 90 | $10.97 | [Chart](https://www.tradingview.com/chart/?symbol=PACS) | PACS Group, Inc. | PACS |
 | 16 | 90 | $10.38 | [Chart](https://www.tradingview.com/chart/?symbol=AVO) | Mission Produce, Inc. Common Stock | AVO |
-| 22 | 90 | $50.91 | [Chart](https://www.tradingview.com/chart/?symbol=LW) | Lamb Weston Holdings, Inc. | LW |
 | 22 | 90 | $16.66 | [Chart](https://www.tradingview.com/chart/?symbol=PD) | PagerDuty, Inc. | PD |
-| 28 | 90 | $149.03 | [Chart](https://www.tradingview.com/chart/?symbol=MTN) | Vail Resorts, Inc. | MTN |
-| 12 | 89 | $12.23 | [Chart](https://www.tradingview.com/chart/?symbol=APLE) | Apple Hospitality REIT, Inc. | APLE |
-| 22 | 89 | $35.85 | [Chart](https://www.tradingview.com/chart/?symbol=SLB) | Schlumberger Limited | SLB |
-| 15 | 88 | $16.49 | [Chart](https://www.tradingview.com/chart/?symbol=CHCT) | Community Healthcare Trust Incorporated Common Stock, $0.01 par value per share | CHCT |
-| 17 | 88 | $21.81 | [Chart](https://www.tradingview.com/chart/?symbol=SIRI) | Sirius XM Holdings,  Inc | SIRI |
-| 19 | 88 | $10.15 | [Chart](https://www.tradingview.com/chart/?symbol=CELC) | Celcuity Inc. Common Stock | CELC |
-| 20 | 88 | $13.43 | [Chart](https://www.tradingview.com/chart/?symbol=WDS) | Woodside Energy Group Limited American Depositary Shares, each representing one Ordinary Share | WDS |
-| 17 | 87 | $37.38 | [Chart](https://www.tradingview.com/chart/?symbol=TECS) | Direxion Daily Technology Bear 3x Shares | TECS |
-| 18 | 87 | $37.00 | [Chart](https://www.tradingview.com/chart/?symbol=NBHC) | NATIONAL BANK HOLDINGS CORP. | NBHC |
-| 14 | 86 | $15.09 | [Chart](https://www.tradingview.com/chart/?symbol=INMD) | InMode Ltd. Ordinary Shares | INMD |
-| 22 | 86 | $12.77 | [Chart](https://www.tradingview.com/chart/?symbol=DBO) | Invesco DB Oil Fund | DBO |
-| 36 | 84 | $21.46 | [Chart](https://www.tradingview.com/chart/?symbol=NVDS) | Investment Managers Series Trust II Tradr 1.5X Short NVDA Daily ETF | NVDS |
-| 19 | 82 | $97.83 | [Chart](https://www.tradingview.com/chart/?symbol=RVTY) | Revvity, Inc. | RVTY |
-| 23 | 82 | $36.76 | [Chart](https://www.tradingview.com/chart/?symbol=BHE) | Benchmark Electronics | BHE |
-| 26 | 82 | $19.18 | [Chart](https://www.tradingview.com/chart/?symbol=HVT) | Haverty Furniture Companies, Inc. | HVT |
-| 23 | 81 | $55.97 | [Chart](https://www.tradingview.com/chart/?symbol=KBH) | KB Home | KBH |
-| 29 | 80 | $27.49 | [Chart](https://www.tradingview.com/chart/?symbol=BNO) | United States Brent Oil Fund, LP | BNO |
-| 37 | 80 | $65.40 | [Chart](https://www.tradingview.com/chart/?symbol=ZROZ) | PIMCO 25+ Year Zero Coupon U.S. Treasury Index Exchange-Traded Fund | ZROZ |
-| 21 | 79 | $74.54 | [Chart](https://www.tradingview.com/chart/?symbol=WFG) | West Fraser Timber Co. Ltd | WFG |
-| 28 | 79 | $43.71 | [Chart](https://www.tradingview.com/chart/?symbol=FEPI) | REX FANG & Innovation Equity Premium Income ETF | FEPI |
-| 31 | 79 | $20.76 | [Chart](https://www.tradingview.com/chart/?symbol=BITI) | ProShares Short Bitcoin ETF | BITI |
+| 28 | 90 | $149.05 | [Chart](https://www.tradingview.com/chart/?symbol=MTN) | Vail Resorts, Inc. | MTN |
+| 22 | 89 | $50.91 | [Chart](https://www.tradingview.com/chart/?symbol=LW) | Lamb Weston Holdings, Inc. | LW |
+| 22 | 89 | $35.86 | [Chart](https://www.tradingview.com/chart/?symbol=SLB) | Schlumberger Limited | SLB |
+| 21 | 87 | $19.59 | [Chart](https://www.tradingview.com/chart/?symbol=AAT) | AMERICAN ASSETS TRUST, INC. | AAT |
+| 17 | 86 | $37.49 | [Chart](https://www.tradingview.com/chart/?symbol=TECS) | Direxion Daily Technology Bear 3x Shares | TECS |
+| 22 | 85 | $12.77 | [Chart](https://www.tradingview.com/chart/?symbol=DBO) | Invesco DB Oil Fund | DBO |
+| 35 | 85 | $21.40 | [Chart](https://www.tradingview.com/chart/?symbol=NVDS) | Investment Managers Series Trust II Tradr 1.5X Short NVDA Daily ETF | NVDS |
+| 19 | 82 | $98.17 | [Chart](https://www.tradingview.com/chart/?symbol=RVTY) | Revvity, Inc. | RVTY |
+| 22 | 82 | $55.83 | [Chart](https://www.tradingview.com/chart/?symbol=KBH) | KB Home | KBH |
+| 23 | 82 | $36.62 | [Chart](https://www.tradingview.com/chart/?symbol=BHE) | Benchmark Electronics | BHE |
+| 28 | 80 | $27.48 | [Chart](https://www.tradingview.com/chart/?symbol=BNO) | United States Brent Oil Fund, LP | BNO |
+| 36 | 80 | $65.36 | [Chart](https://www.tradingview.com/chart/?symbol=ZROZ) | PIMCO 25+ Year Zero Coupon U.S. Treasury Index Exchange-Traded Fund | ZROZ |
+| 31 | 79 | $20.77 | [Chart](https://www.tradingview.com/chart/?symbol=BITI) | ProShares Short Bitcoin ETF | BITI |
+| 23 | 78 | $14.64 | [Chart](https://www.tradingview.com/chart/?symbol=RYLD) | Global X Russell 2000 Covered Call ETF | RYLD |
 | 24 | 78 | $16.41 | [Chart](https://www.tradingview.com/chart/?symbol=QYLD) | Global X Funds Global X NASDAQ-100 Covered Call ETF | QYLD |
-| 24 | 77 | $14.65 | [Chart](https://www.tradingview.com/chart/?symbol=RYLD) | Global X Russell 2000 Covered Call ETF | RYLD |
-| 29 | 77 | $14.55 | [Chart](https://www.tradingview.com/chart/?symbol=BMEZ) | BlackRock Health Sciences Term Trust | BMEZ |
-| 31 | 77 | $20.93 | [Chart](https://www.tradingview.com/chart/?symbol=CSWC) | Capital Southwest Corp | CSWC |
-| 33 | 77 | $12.34 | [Chart](https://www.tradingview.com/chart/?symbol=KELYA) | Kelly Services Inc | KELYA |
-| 31 | 76 | $57.05 | [Chart](https://www.tradingview.com/chart/?symbol=UHAL.B) | U-Haul Holding Company | UHAL.B |
-| 35 | 76 | $134.84 | [Chart](https://www.tradingview.com/chart/?symbol=HES) | Hess Corporation | HES |
-| 33 | 75 | $32.77 | [Chart](https://www.tradingview.com/chart/?symbol=LEGN) | Legend Biotech Corporation American Depositary Shares | LEGN |
-| 32 | 74 | $111.93 | [Chart](https://www.tradingview.com/chart/?symbol=LEN) | Lennar Corporation Class A | LEN |
-| 33 | 74 | $13.90 | [Chart](https://www.tradingview.com/chart/?symbol=BSM) | Black Stone Minerals, L.P. | BSM |
+| 28 | 78 | $43.71 | [Chart](https://www.tradingview.com/chart/?symbol=FEPI) | REX FANG & Innovation Equity Premium Income ETF | FEPI |
+| 31 | 76 | $20.90 | [Chart](https://www.tradingview.com/chart/?symbol=CSWC) | Capital Southwest Corp | CSWC |
+| 32 | 76 | $32.61 | [Chart](https://www.tradingview.com/chart/?symbol=LEGN) | Legend Biotech Corporation American Depositary Shares | LEGN |
+| 35 | 76 | $135.00 | [Chart](https://www.tradingview.com/chart/?symbol=HES) | Hess Corporation | HES |
+| 31 | 75 | $111.65 | [Chart](https://www.tradingview.com/chart/?symbol=LEN) | Lennar Corporation Class A | LEN |
 | 31 | 73 | $17.41 | [Chart](https://www.tradingview.com/chart/?symbol=MLNK) | MeridianLink, Inc. | MLNK |
-| 31 | 71 | $10.66 | [Chart](https://www.tradingview.com/chart/?symbol=LADR) | LADDER CAPITAL CORP | LADR |
-| 35 | 70 | $117.84 | [Chart](https://www.tradingview.com/chart/?symbol=VDE) | Vanguard Energy ETF | VDE |
-| 37 | 70 | $17.74 | [Chart](https://www.tradingview.com/chart/?symbol=JPMpM) | JPMorgan Chase & Co. Depositary Shares, each representing a 1/400th interest in a share of 4.20% Non-Cumulative Preferred Stock, Series MM | JPMpM |
+| 34 | 73 | $13.94 | [Chart](https://www.tradingview.com/chart/?symbol=BSM) | Black Stone Minerals, L.P. | BSM |
+| 32 | 70 | $10.71 | [Chart](https://www.tradingview.com/chart/?symbol=LADR) | LADDER CAPITAL CORP | LADR |
+| 34 | 69 | $14.99 | [Chart](https://www.tradingview.com/chart/?symbol=HR) | Healthcare Realty Trust Incorporated | HR |
 | 34 | 69 | $56.83 | [Chart](https://www.tradingview.com/chart/?symbol=IYH) | iShares U.S. Healthcare ETF | IYH |
-| 35 | 69 | $15.04 | [Chart](https://www.tradingview.com/chart/?symbol=HR) | Healthcare Realty Trust Incorporated | HR |
-| 37 | 66 | $84.28 | [Chart](https://www.tradingview.com/chart/?symbol=XLE) | Energy Select Sector SPDR Fund | XLE |
+| 36 | 68 | $118.09 | [Chart](https://www.tradingview.com/chart/?symbol=VDE) | Vanguard Energy ETF | VDE |
+| 38 | 68 | $26.68 | [Chart](https://www.tradingview.com/chart/?symbol=HASI) | HA Sustainable Infrastructure Capital, Inc. | HASI |
+| 38 | 68 | $11.24 | [Chart](https://www.tradingview.com/chart/?symbol=MQY) | Blackrock Muni Yield Quality Fund, Inc | MQY |
+| 38 | 67 | $17.77 | [Chart](https://www.tradingview.com/chart/?symbol=JPMpM) | JPMorgan Chase & Co. Depositary Shares, each representing a 1/400th interest in a share of 4.20% Non-Cumulative Preferred Stock, Series MM | JPMpM |
+| 37 | 66 | $84.45 | [Chart](https://www.tradingview.com/chart/?symbol=XLE) | Energy Select Sector SPDR Fund | XLE |
 
 ## **Methodology**
 
